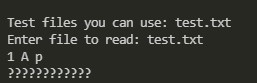
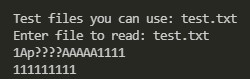
fixed bug at 0xprinter

diff --git a/2021 September Assignments/0xprinter.py b/2021 September Assignments/0xprinter.py
@@ -3,7 +3,7 @@ import re
 
 filename = input("\nTest files you can use: test.txt\nEnter file to read: ")
 try:
-    f = open(filename, "r")
+    f = open(file=filename, mode="r", encoding="utf-8")
     data = f.read()
     
     result = ""
